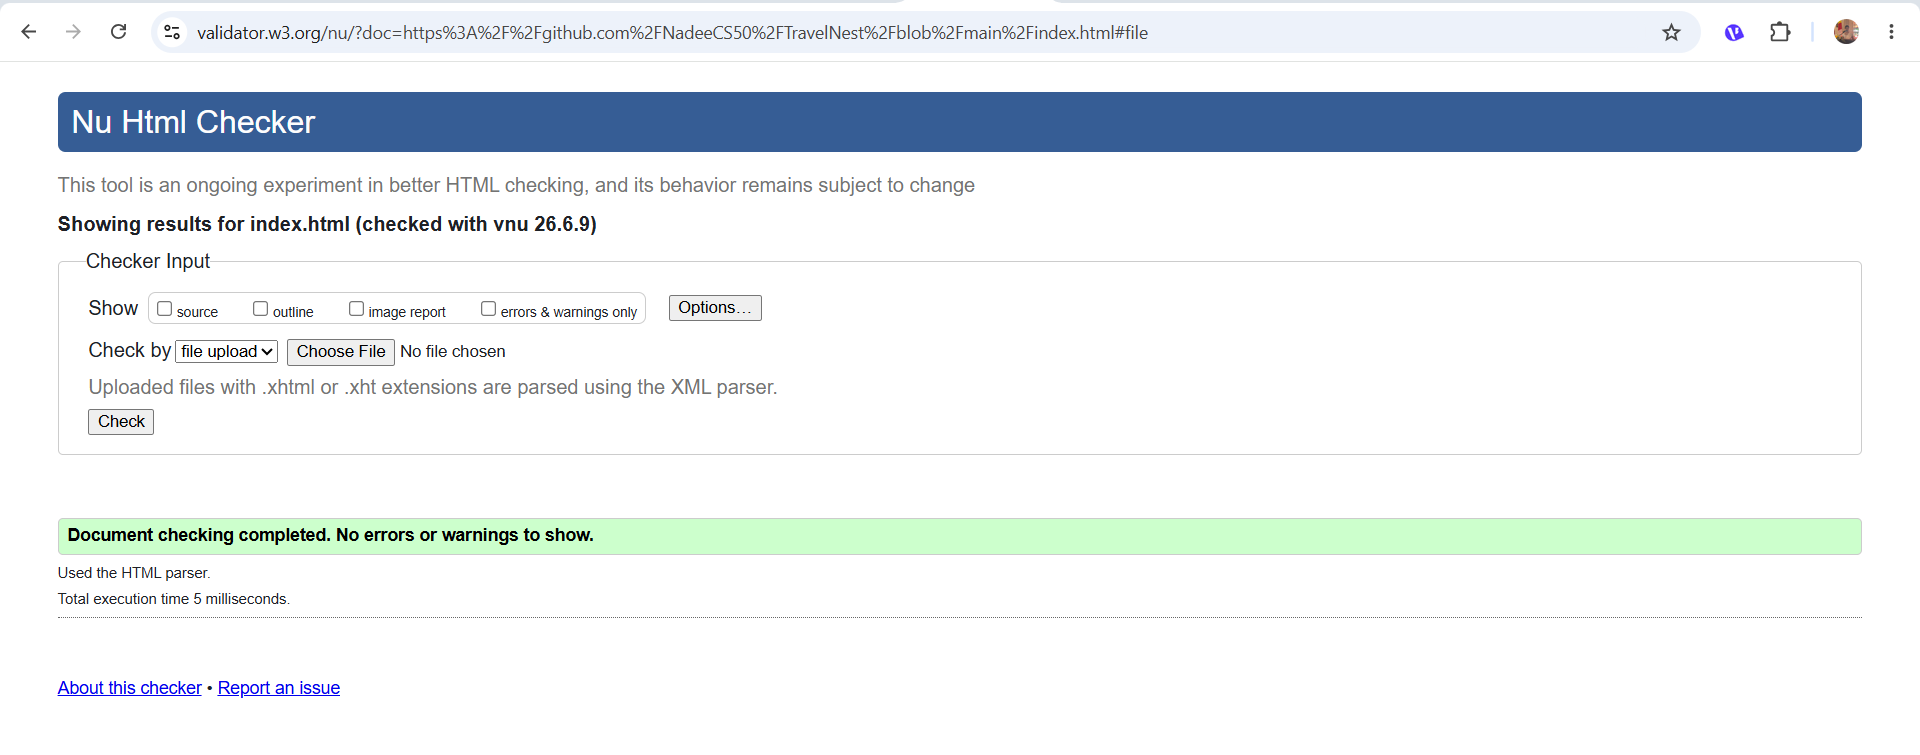
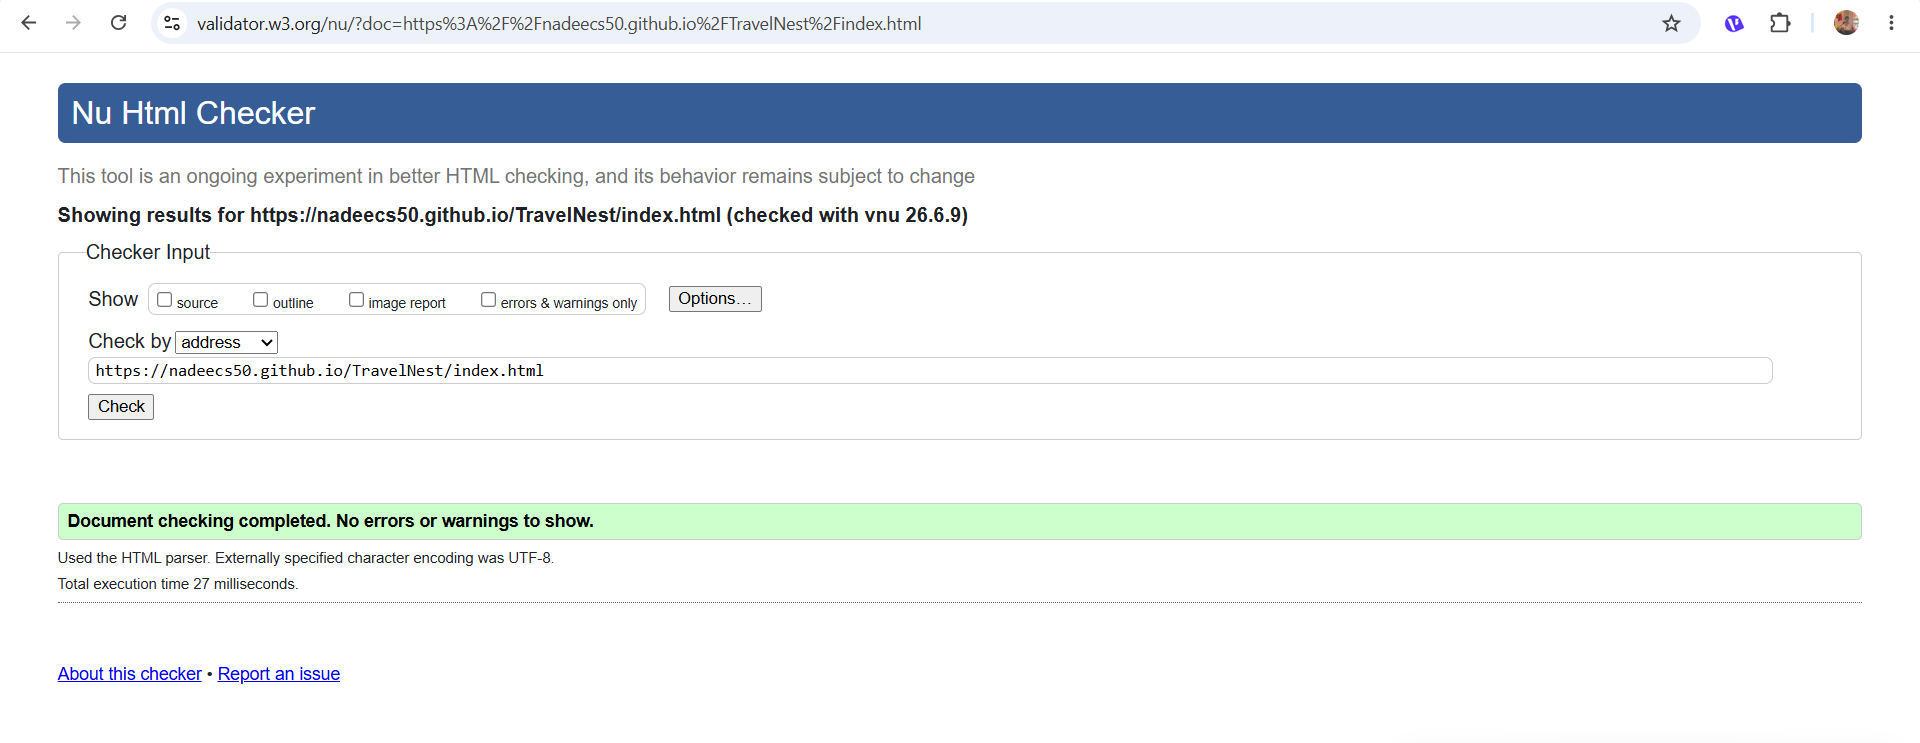
updated the styles

diff --git a/css/global.css b/css/global.css
@@ -1,15 +1,15 @@
 @import url('https://fonts.googleapis.com/css2?family=Inter:wght@300;400;500;600&family=Outfit:wght@400;500;600;700;800&display=swap');
 
 :root {
-    --bg-color: #0f172a;
-    --text-main: #f8fafc;
-    --text-muted: #94a3b8;
-    --card-bg: #1e293b99;
-    --glass-border: rgba(255, 255, 255, 0.08);
-    --accent-cyan: #06b6d4;
-    --accent-violet: #89CFF0;
-    --color-primary: #89CFF0;
-    --nav-bg: rgba(15, 23, 42, 0.75);
+    --bg-color: #07111f;
+    --text-main: #f8fbff;
+    --text-muted: #dbe7f5;
+    --card-bg: rgba(15, 23, 42, 0.94);
+    --glass-border: rgba(148, 163, 184, 0.24);
+    --accent-cyan: #22d3ee;
+    --accent-violet: #c4b5fd;
+    --color-primary: #67e8f9;
+    --nav-bg: rgba(7, 17, 31, 0.96);
     --transition: all 0.3s ease;
 }
 
@@ -95,8 +95,8 @@ nav a:hover {
 
 button {
     padding: 12px 28px;
-    background: var(--color-primary);
-    color: white;
+    background: linear-gradient(135deg, var(--color-primary), var(--accent-cyan));
+    color: #082f49;
     border: none;
     border-radius: 8px;
     font-family: 'Inter', sans-serif;
@@ -115,10 +115,10 @@ button:hover {
 
 input, select, textarea {
     padding: 12px 16px;
-    background: lightblue;
-    border: 1px solid var(--glass-border);
+    background: #eff6ff;
+    border: 1px solid rgba(148, 163, 184, 0.45);
     border-radius: 8px;
-    color: #000;
+    color: #0f172a;
     font-family: 'Inter', sans-serif;
     outline: none;
     transition: var(--transition);
@@ -126,8 +126,8 @@ input, select, textarea {
 
 input::placeholder,
 textarea::placeholder {
-    color: #000;
-    opacity: 0.7;
+    color: #334155;
+    opacity: 0.85;
 }
 
 option {
@@ -137,8 +137,18 @@ option {
 
 input:focus, select:focus, textarea:focus {
     border-color: var(--accent-cyan);
-    background: #add8e6;
-    color: #000;
+    background: #f8fbff;
+    color: #0f172a;
+    box-shadow: 0 0 0 3px rgba(34, 211, 238, 0.18);
+}
+
+button:focus-visible,
+a:focus-visible,
+input:focus-visible,
+select:focus-visible,
+textarea:focus-visible {
+    outline: 3px solid var(--accent-cyan);
+    outline-offset: 3px;
 }
 
 /* FOOTER */